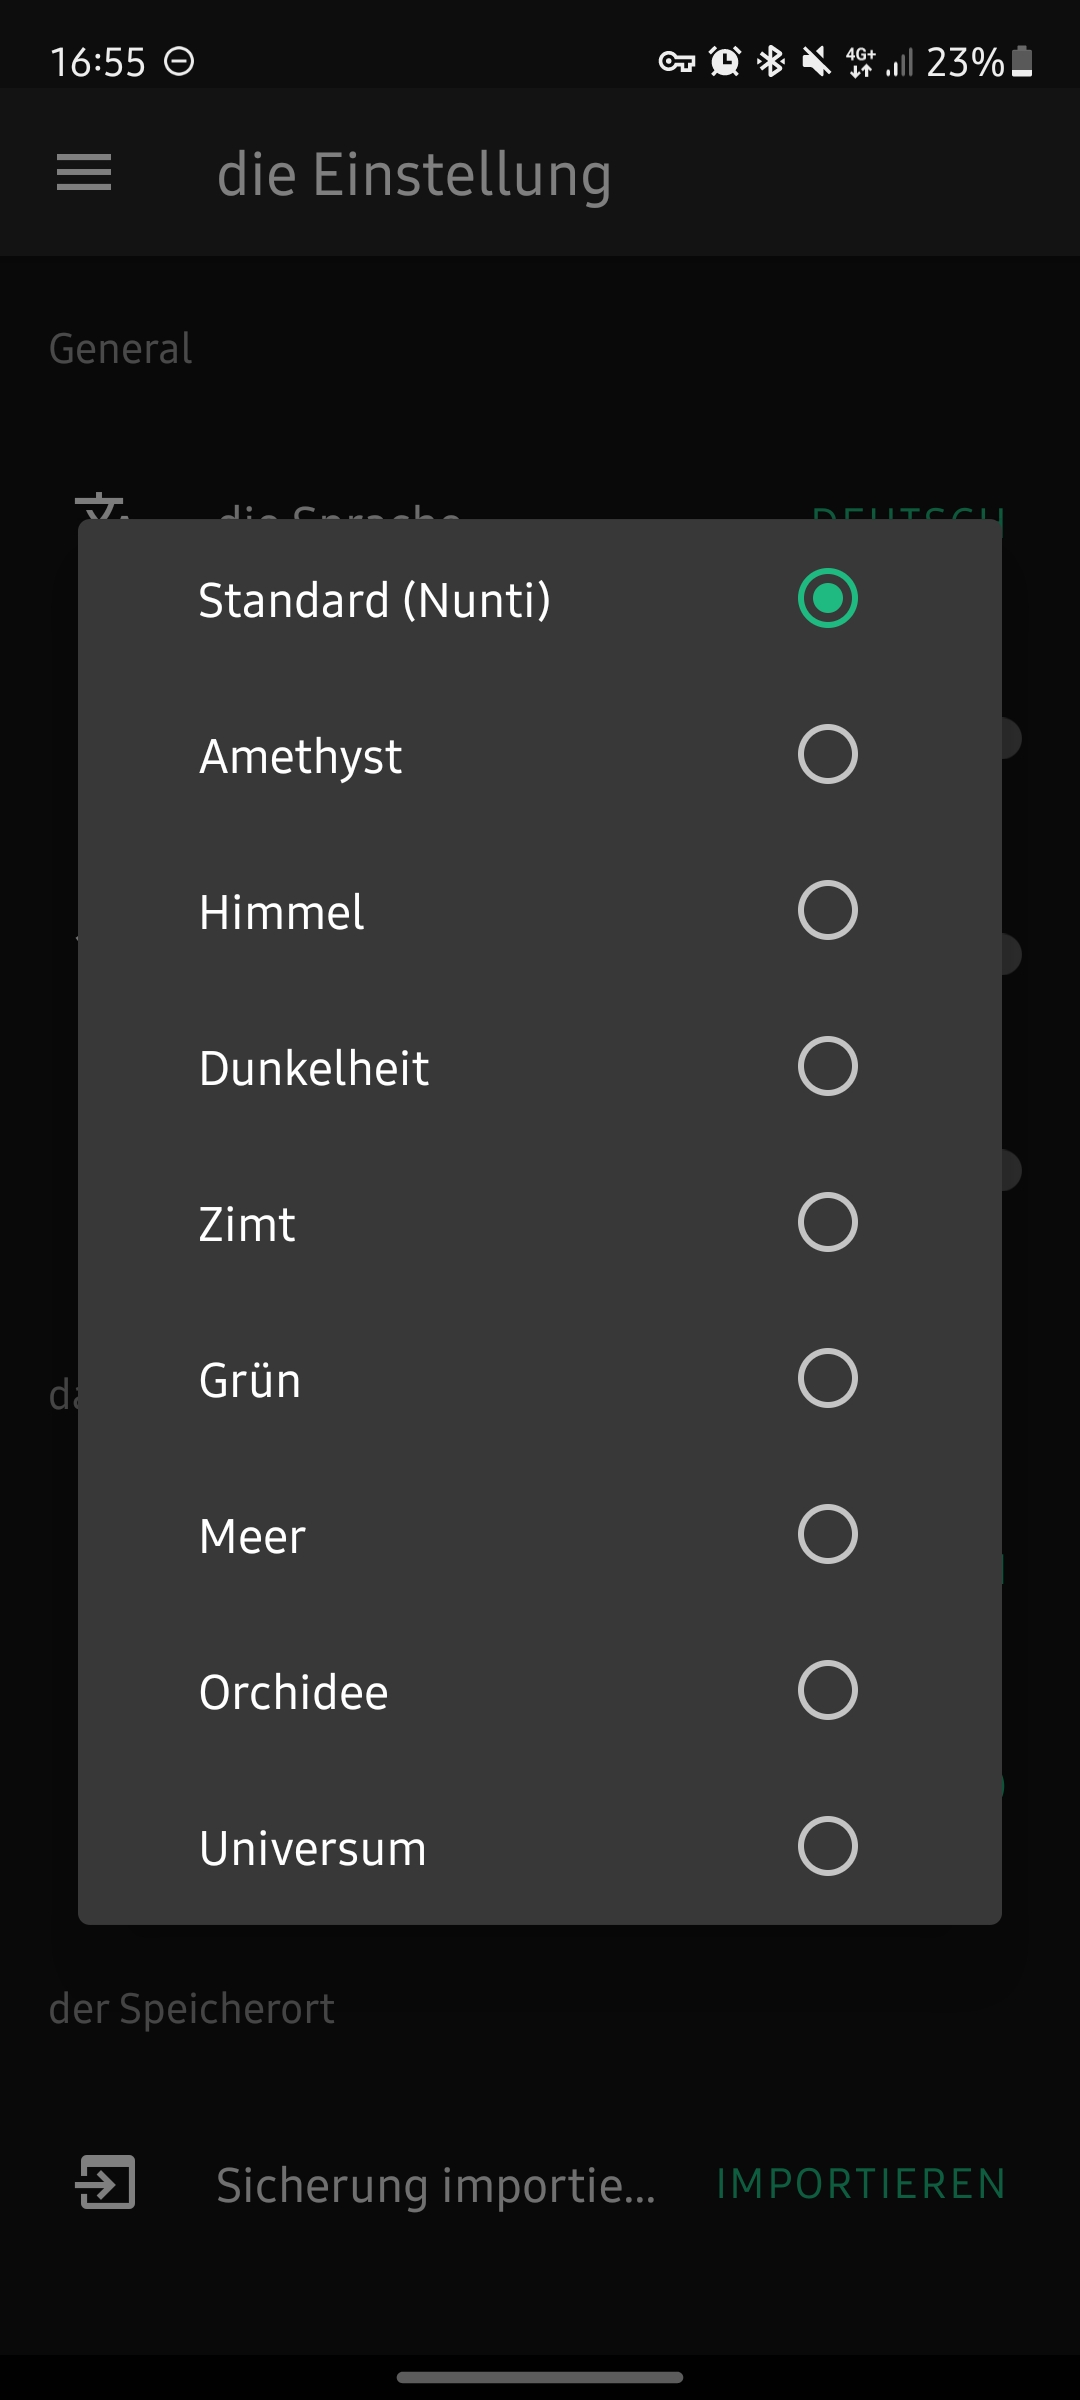
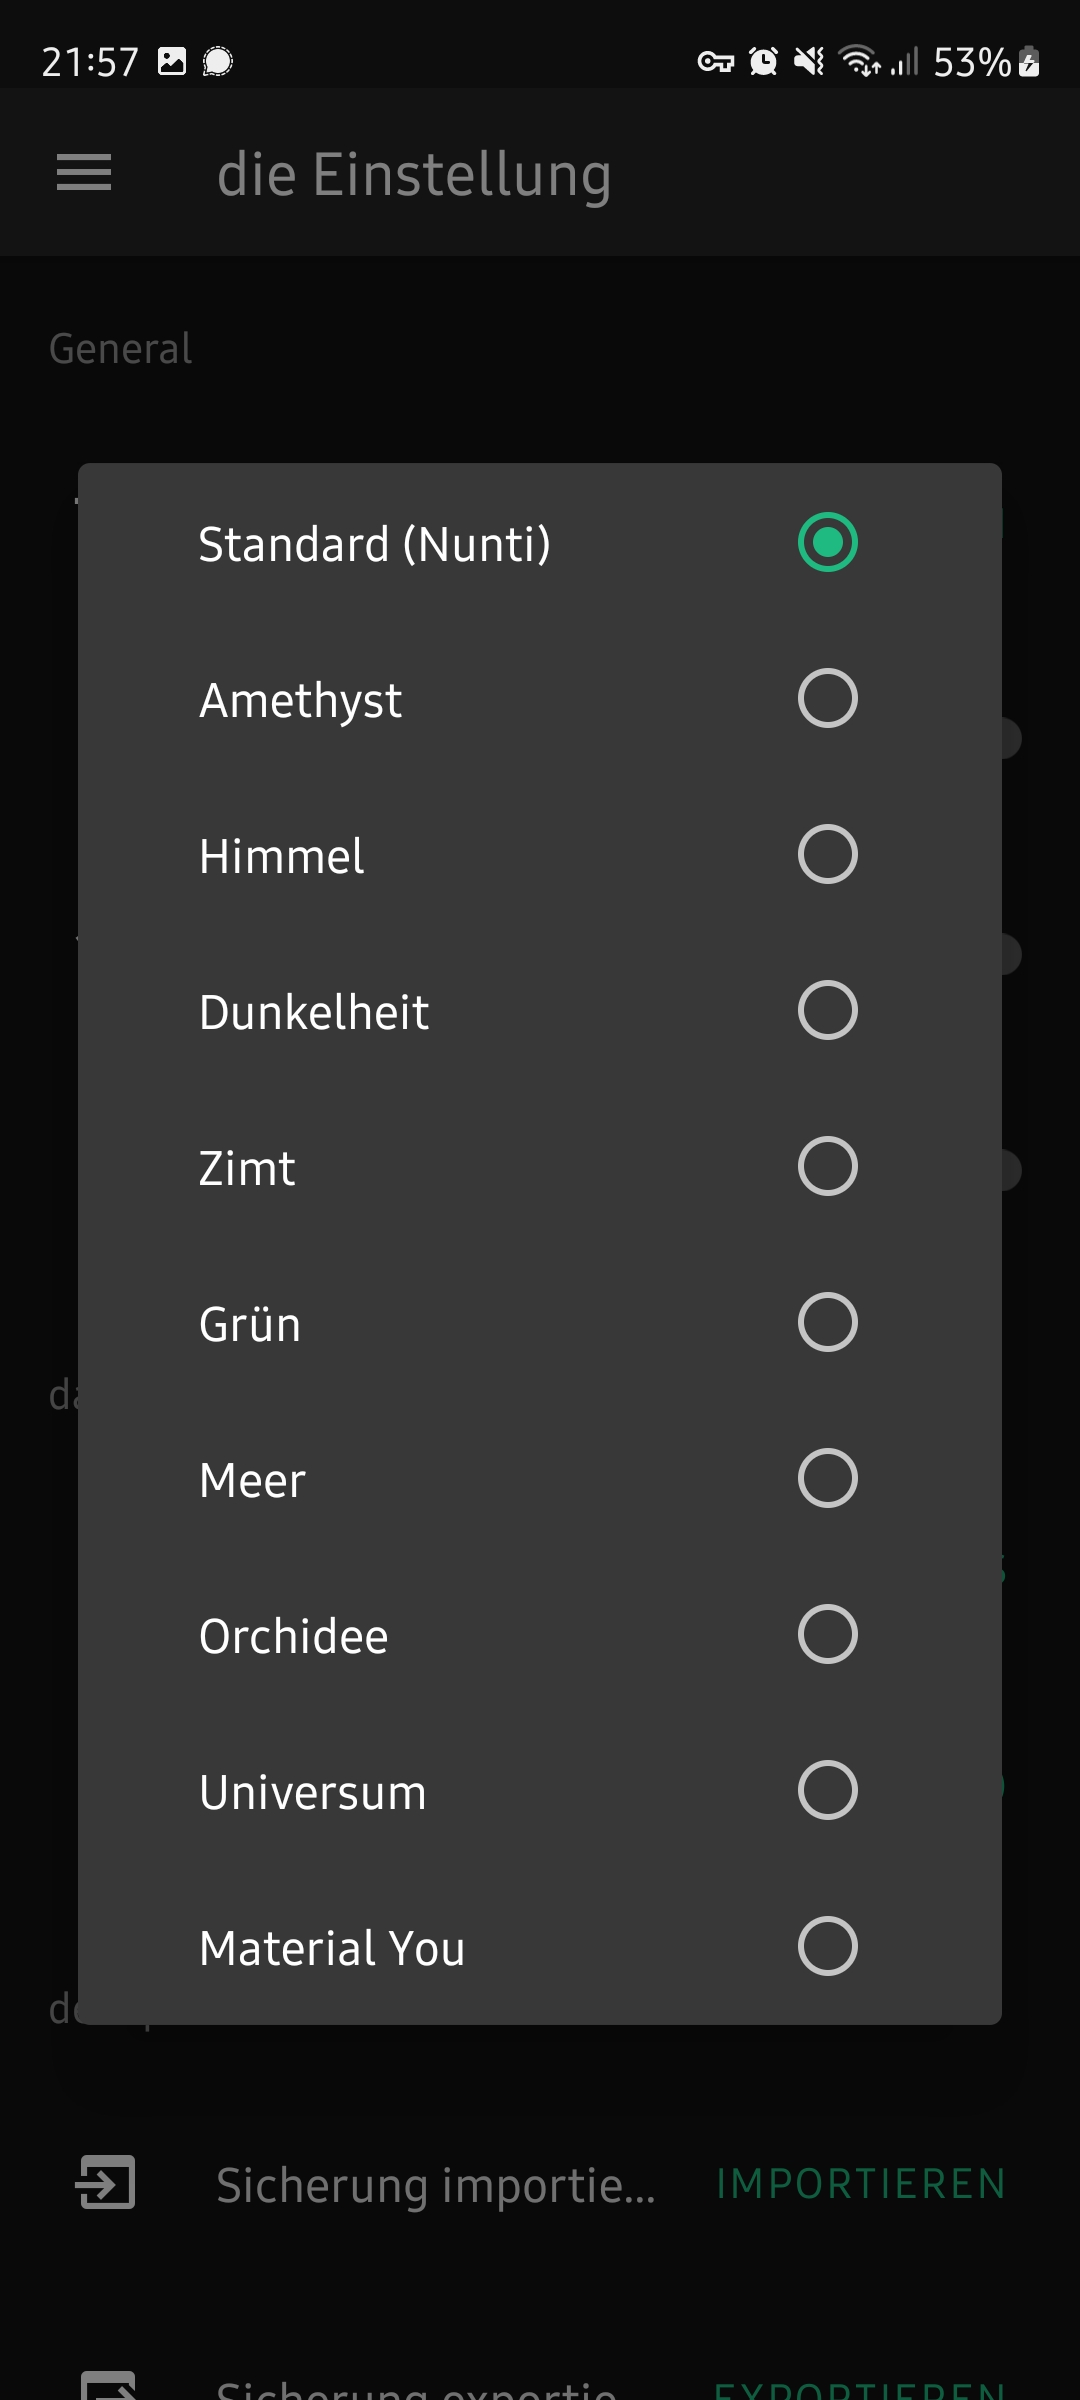
add material you, fix splash screen, improve perf on rate anim

diff --git a/Nunti/src/App.tsx b/Nunti/src/App.tsx
@@ -25,6 +25,7 @@ import { NavigationContainer } from '@react-navigation/native';
 import { createDrawerNavigator } from '@react-navigation/drawer';
 
 import RNBootSplash from "react-native-bootsplash";
+import { getPalette } from '@assembless/react-native-material-you';
 
 const NavigationDrawer = createDrawerNavigator();
 
@@ -139,7 +140,18 @@ export default class App extends Component {
     public async updateAccent(accentName: string){
         let theme = this.state.theme;
 
-        if(theme.dark){
+        if(accentName == "material_you"){
+            let pallete = await getPalette();
+            if(theme.dark){
+                theme.colors.accent = pallete.system_accent1[5];
+                theme.colors.primary = pallete.system_accent1[5];
+                theme.colors.accentReverse = pallete.system_accent1[8];
+            } else {
+                theme.colors.accent = pallete.system_accent1[8];
+                theme.colors.primary = pallete.system_accent1[8];
+                theme.colors.accentReverse = pallete.system_accent1[5];
+            }
+        } else if(theme.dark){
             theme.colors.accent = Colors[accentName].dark;
             theme.colors.primary = Colors[accentName].dark;
             theme.colors.accentReverse = Colors[accentName].light;

diff --git a/Nunti/src/Screens/Settings.tsx b/Nunti/src/Screens/Settings.tsx
@@ -1,6 +1,7 @@
 import React, { Component } from 'react';
 import {
     ScrollView,
+    Platform,
 } from 'react-native';
 
 import {
@@ -457,6 +458,8 @@ class Settings extends Component { // not using purecomponent as it doesn't rere
                                     <RadioButton.Item label={this.props.lang.ocean} value="ocean" />
                                     <RadioButton.Item label={this.props.lang.orchid} value="orchid" />
                                     <RadioButton.Item label={this.props.lang.space} value="space" />
+                                    <RadioButton.Item disabled={Platform.Version < 31}
+                                        label={this.props.lang.material_you} value="material_you" />
                                 </RadioButton.Group>
                             </ScrollView>
                         </Dialog.ScrollArea>

diff --git a/Nunti/src/Screens/Wizard.tsx b/Nunti/src/Screens/Wizard.tsx
@@ -1,7 +1,8 @@
 import React, { Component } from 'react';
 import {
     ScrollView,
-    Image
+    Image,
+    Platform
 } from "react-native";
 
 import { 
@@ -211,6 +212,8 @@ class Step3Theme extends Component {
                             right={() => <RadioButton.Item value="orchid" />} />
                         <List.Item title={this.props.lang.space}
                             right={() => <RadioButton.Item value="space" />} />
+                        <List.Item title={this.props.lang.material_you}
+                            right={() => <RadioButton.Item disabled={Platform.Version < 31} value="material_you" />} />
                     </List.Section>
                 </RadioButton.Group>
             </ScrollView>

diff --git a/Nunti/src/Screens/Bookmarks.tsx b/Nunti/src/Screens/Bookmarks.tsx
@@ -148,9 +148,10 @@ class Bookmarks extends PureComponent {
 
     // render functions
     private async rateAnimation(){
-        Animated.spring(this.hiddenRowAnimatedValue, {
+        Animated.timing(this.hiddenRowAnimatedValue, {
             toValue: this.hiddenRowActive ? 0 : 1,
             useNativeDriver: false,
+            duration: 100
         }).start();
 
         this.hiddenRowActive = !this.hiddenRowActive;

diff --git a/Nunti/src/Screens/Feed.tsx b/Nunti/src/Screens/Feed.tsx
@@ -144,9 +144,10 @@ class Feed extends PureComponent {
 
     // render functions
     private async rateAnimation(){
-        Animated.spring(this.hiddenRowAnimatedValue, {
+        Animated.timing(this.hiddenRowAnimatedValue, {
             toValue: this.hiddenRowActive ? 0 : 1,
             useNativeDriver: false,
+            duration: 100
         }).start();
 
         this.hiddenRowActive = !this.hiddenRowActive;

diff --git a/Nunti/src/Locale.ts b/Nunti/src/Locale.ts
@@ -24,7 +24,7 @@ export const English = {
     export_fail: "Failed to export backup",
     added_feed: "Added %feed% to feeds",
     add_feed_fail: "Cannot add feed",
-    removed_feed: "Remove %feed% from feeds",
+    removed_feed: "Removed %feed% from feeds",
     remove_feed_fail: "Failed to remove RSS feed",
     reset_art_cache: "Article cache reset",
     wiped_data: "Restored all data",

diff --git a/README.md b/README.md
@@ -37,7 +37,7 @@ Nunti implements all the best practices of material design to finally create an 
 
 ### Theming options
 
-Nunti allows you to customise the look of the app to make it unique to you. "Material You" is also planned once one of the developers gets android 12.
+Nunti allows you to customise the look of the app to make it unique to you. Nunti also supports the new dynamic theme system "Material You" to get just the right accent colour from your wallpaper.
 
 <img src="https://gitlab.com/ondrejfoltyn/nunti/-/raw/master/fastlane/metadata/android/en-US/images/phoneScreenshots/09.jpg" alt="Nunti theme" width="20%" height="20%">
 <img src="https://gitlab.com/ondrejfoltyn/nunti/-/raw/master/fastlane/metadata/android/en-US/images/phoneScreenshots/10.jpg" alt="Nunti accent" width="20%" height="20%">
